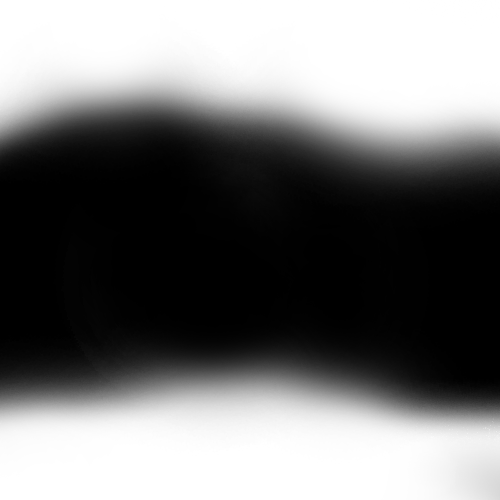
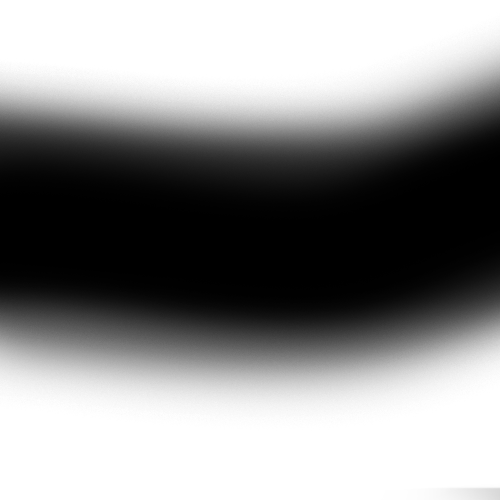
fixed clip plane

diff --git a/src/main/java/am/aua/water/WaterFrameBuffers.java b/src/main/java/am/aua/water/WaterFrameBuffers.java
@@ -10,8 +10,8 @@ import org.lwjgl.opengl.GL32;
 
 public class WaterFrameBuffers {
 
-    protected static final int REFLECTION_WIDTH = 1280;
-    private static final int REFLECTION_HEIGHT = 720;
+    protected static final int REFLECTION_WIDTH = 320;
+    private static final int REFLECTION_HEIGHT = 180;
 
     protected static final int REFRACTION_WIDTH = 1280;
     private static final int REFRACTION_HEIGHT = 720;
@@ -24,12 +24,12 @@ public class WaterFrameBuffers {
     private int refractionTexture;
     private int refractionDepthTexture;
 
-    public WaterFrameBuffers() {
+    public WaterFrameBuffers() {//call when loading the game
         initialiseReflectionFrameBuffer();
         initialiseRefractionFrameBuffer();
     }
 
-    public void dispose() {
+    public void dispose() {//call when closing the game
         GL30.glDeleteFramebuffers(reflectionFrameBuffer);
         GL11.glDeleteTextures(reflectionTexture);
         GL30.glDeleteRenderbuffers(reflectionDepthBuffer);
@@ -38,28 +38,28 @@ public class WaterFrameBuffers {
         GL11.glDeleteTextures(refractionDepthTexture);
     }
 
-    public void bindReflectionFrameBuffer() {
+    public void bindReflectionFrameBuffer() {//call before rendering to this FBO
         bindFrameBuffer(reflectionFrameBuffer,REFLECTION_WIDTH,REFLECTION_HEIGHT);
     }
 
-    public void bindRefractionFrameBuffer() {
+    public void bindRefractionFrameBuffer() {//call before rendering to this FBO
         bindFrameBuffer(refractionFrameBuffer,REFRACTION_WIDTH,REFRACTION_HEIGHT);
     }
 
-    public void unbindCurrentFrameBuffer() {
+    public void unbindCurrentFrameBuffer() {//call to switch to default frame buffer
         GL30.glBindFramebuffer(GL30.GL_FRAMEBUFFER, 0);
         GL11.glViewport(0, 0, Window.getFramebufferWidth(), Window.getFramebufferHeight());
     }
 
-    public int getReflectionTexture() {
+    public int getReflectionTexture() {//get the resulting texture
         return reflectionTexture;
     }
 
-    public int getRefractionTexture() {
+    public int getRefractionTexture() {//get the resulting texture
         return refractionTexture;
     }
 
-    public int getRefractionDepthTexture() {
+    public int getRefractionDepthTexture(){//get the resulting depth texture
         return refractionDepthTexture;
     }
 
@@ -78,18 +78,18 @@ public class WaterFrameBuffers {
     }
 
     private void bindFrameBuffer(int frameBuffer, int width, int height){
-        GL11.glBindTexture(GL11.GL_TEXTURE_2D, 0);
+        GL11.glBindTexture(GL11.GL_TEXTURE_2D, 0);//To make sure the texture isn't bound
         GL30.glBindFramebuffer(GL30.GL_FRAMEBUFFER, frameBuffer);
         GL11.glViewport(0, 0, width, height);
     }
 
     private int createFrameBuffer() {
         int frameBuffer = GL30.glGenFramebuffers();
-
+        //generate name for frame buffer
         GL30.glBindFramebuffer(GL30.GL_FRAMEBUFFER, frameBuffer);
-
+        //create the framebuffer
         GL11.glDrawBuffer(GL30.GL_COLOR_ATTACHMENT0);
-
+        //indicate that we will always render to color attachment 0
         return frameBuffer;
     }
 

diff --git a/src/main/java/am/aua/rendererEngine/Renderer.java b/src/main/java/am/aua/rendererEngine/Renderer.java
@@ -53,13 +53,13 @@ public class Renderer {
     public void render(Light light, Camera camera, Vector4f clipPlane) {
         prepare();
         shader.start();
-        shader.loadCliplPlane(clipPlane);
+        shader.loadClipPlane(clipPlane);
         shader.loadLight(light);
         shader.loadViewMatrix(camera);
         renderer.render(entities);
         shader.stop();
         terrainShader.start();
-        terrainShader.loadCliplPlane(clipPlane);
+        terrainShader.loadClipPlane(clipPlane);
         terrainShader.loadLight(light);
         terrainShader.loadViewMatrix(camera);
         terrainShader.loadTextures();
@@ -101,8 +101,8 @@ public class Renderer {
     }
 
     public void prepare() {
-        GL11.glClear(GL11.GL_COLOR_BUFFER_BIT | GL11.GL_DEPTH_BUFFER_BIT);
         GL11.glClearColor(0.2f, 0.3f, 0.3f, 1.0f);
+        GL11.glClear(GL11.GL_COLOR_BUFFER_BIT | GL11.GL_DEPTH_BUFFER_BIT);
 
         GL11.glPolygonMode(GL11.GL_FRONT_AND_BACK, wireframe ? GL11.GL_LINE : GL11.GL_FILL);
         GL11.glEnable(GL11.GL_DEPTH_TEST);

diff --git a/src/main/java/am/aua/shaders/TerrainShader.java b/src/main/java/am/aua/shaders/TerrainShader.java
@@ -2,7 +2,6 @@ package am.aua.shaders;
 
 import am.aua.entities.Camera;
 import am.aua.entities.Light;
-import am.aua.utils.Maths;
 import org.joml.Matrix4f;
 import org.joml.Vector4f;
 
@@ -47,7 +46,7 @@ public class TerrainShader extends ShaderProgram{
         location_plane = "plane";
     }
 
-    public void loadCliplPlane(Vector4f plane) {
+    public void loadClipPlane(Vector4f plane) {
         super.setVector4f(location_plane, plane);
     }
 

diff --git a/src/main/java/am/aua/shaders/ShaderProgram.java b/src/main/java/am/aua/shaders/ShaderProgram.java
@@ -76,7 +76,7 @@ public abstract class ShaderProgram {
     }
 
     protected void setVector4f(String name, Vector4f value) {
-        GL20.glUniform4f(GL20.glGetUniformLocation(programID, name), value.x, value.y, value.z, value.y);
+        GL20.glUniform4f(GL20.glGetUniformLocation(programID, name), value.x, value.y, value.z, value.w);
     }
 
     protected void bindAttribute(int attribute, String variableName) {

diff --git a/src/main/java/am/aua/shaders/StaticShader.java b/src/main/java/am/aua/shaders/StaticShader.java
@@ -43,7 +43,7 @@ public class StaticShader extends ShaderProgram{
         location_plane = "plane";
     }
 
-    public void loadCliplPlane(Vector4f plane) {
+    public void loadClipPlane(Vector4f plane) {
         super.setVector4f(location_plane, plane);
     }
 
